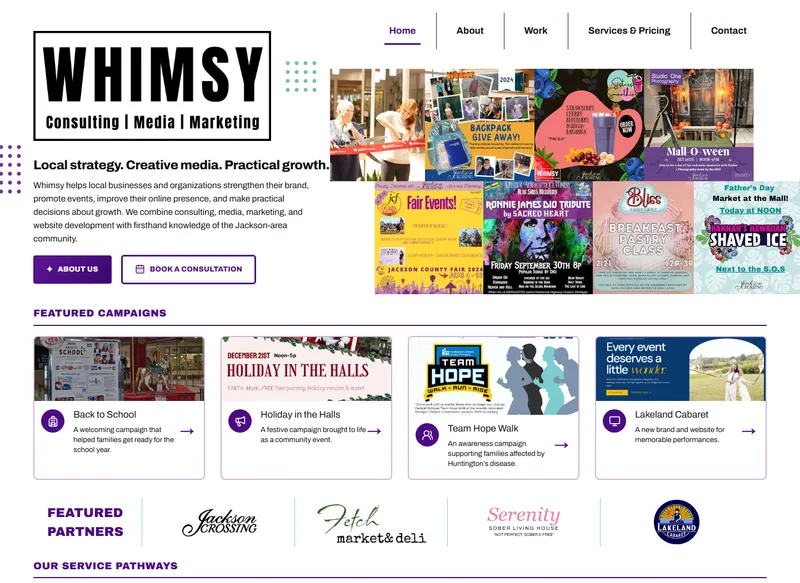
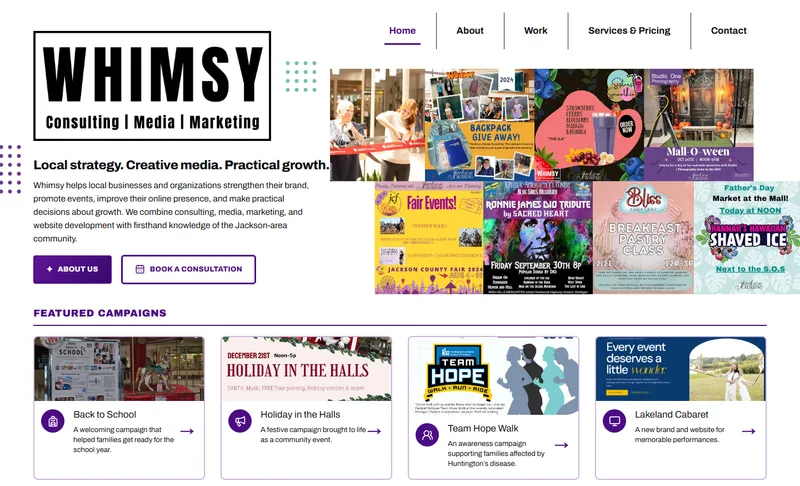
Trim Whimsy card image below featured campaigns

diff --git a/src/app/pages/home/home.html b/src/app/pages/home/home.html
@@ -300,7 +300,7 @@
               src="/assets/projects/whimsy/home-card.webp"
               alt="Whimsy website with a colorful collage of campaigns, community events, and creative work"
               width="800"
-              height="583"
+              height="486"
               loading="lazy"
             />
           </a>

diff --git a/public/assets/projects/whimsy/SOURCES.md b/public/assets/projects/whimsy/SOURCES.md
@@ -3,7 +3,8 @@
 Screenshots captured from the public https://experiencewhimsy.com site on
 September 16, 2026, using Chromium at 1440 × 1050 CSS pixels. The mobile
 homepage uses a 390 × 844 viewport. Images are stored locally as WebP.
-`home-card.webp` is an 800-pixel-wide version of the homepage capture.
+`home-card.webp` is an 800 × 486 crop of the homepage capture, ending just below
+the featured campaign cards, before the featured partners section.
 `holiday-campaign.webp` captures the full `.holiday-partners` section.
 
 | Image | Live page |
